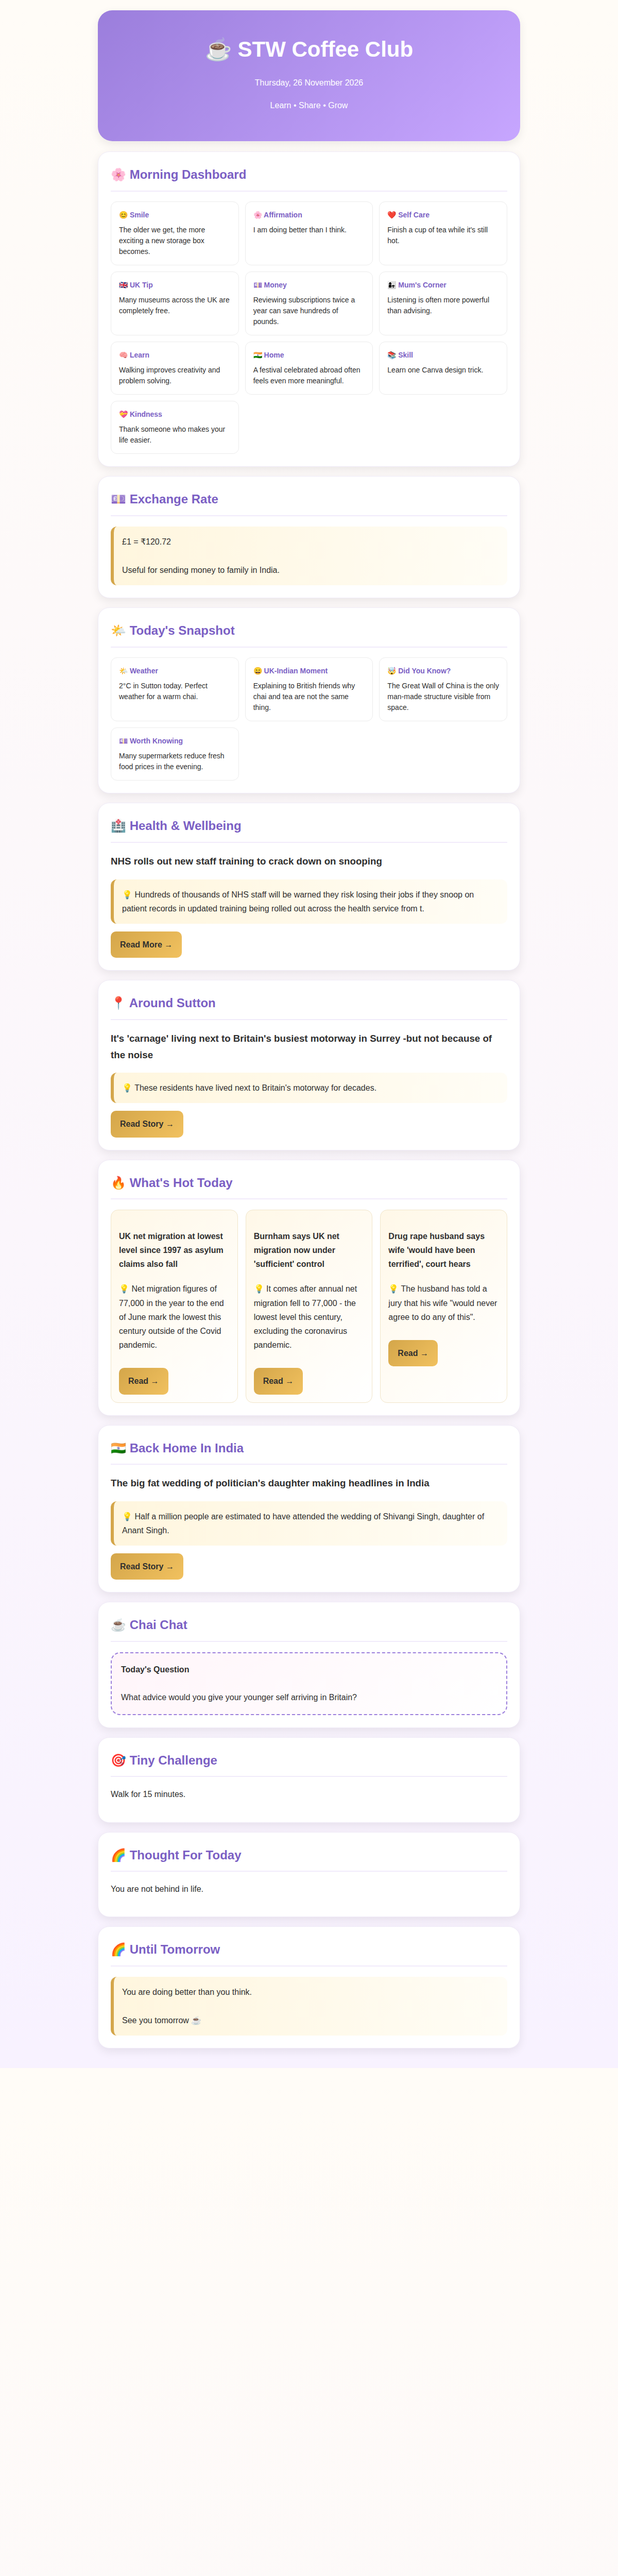
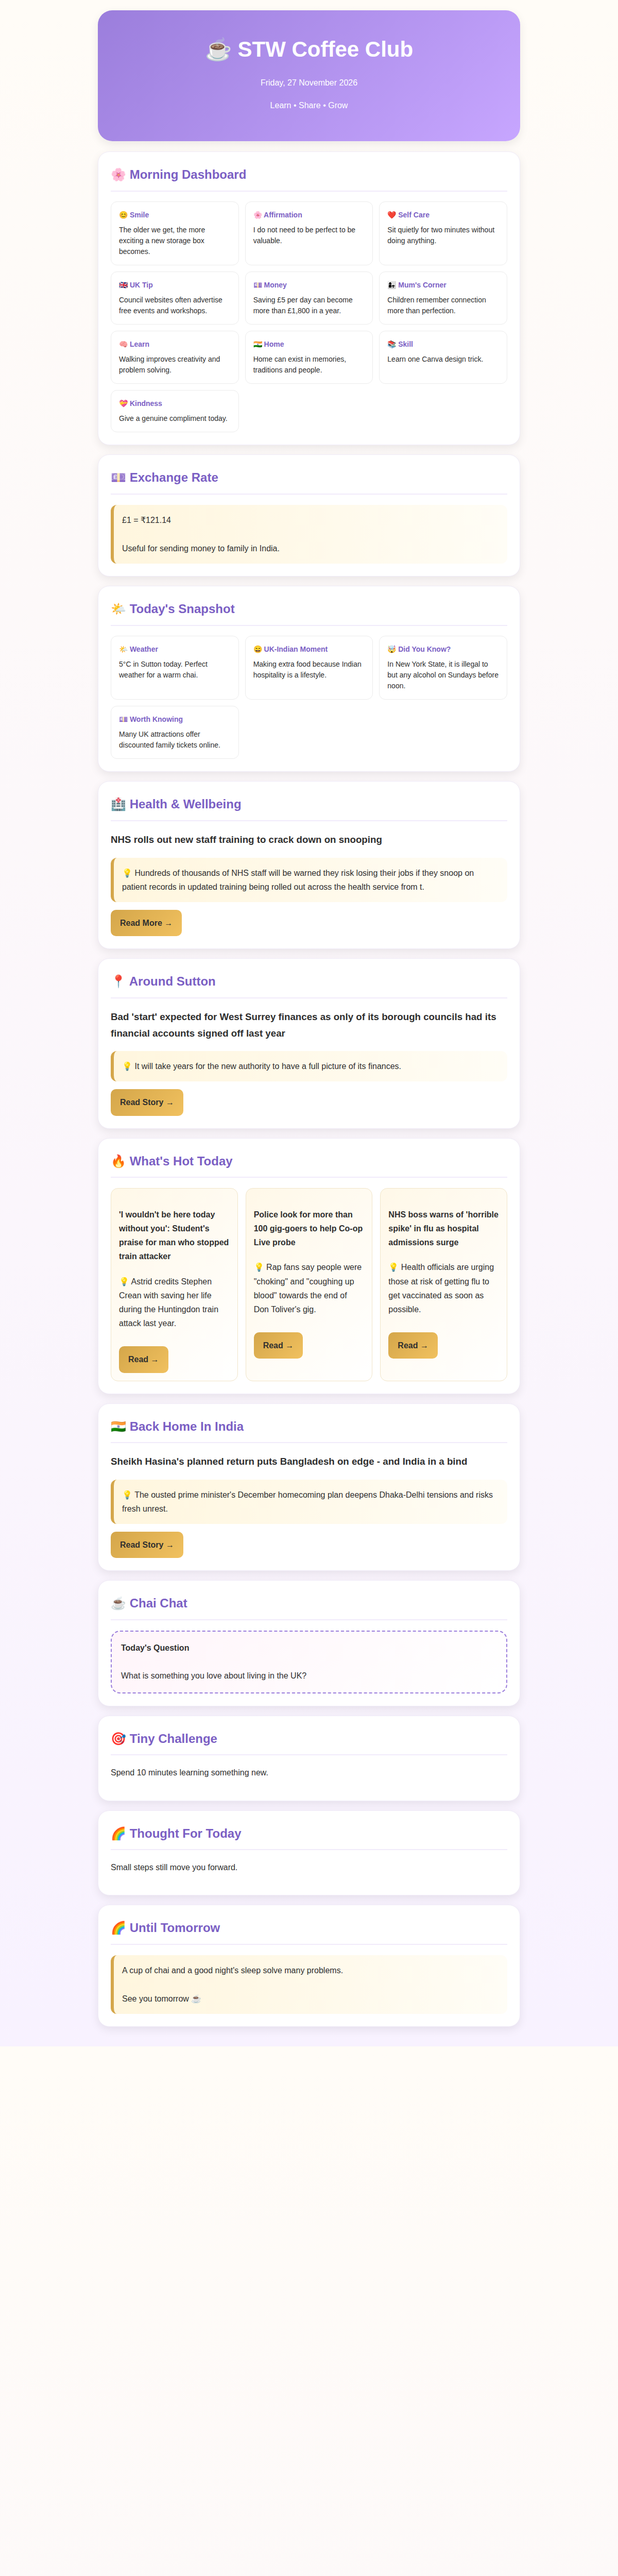
Daily newsletter update

diff --git a/index.html b/index.html
@@ -239,7 +239,7 @@ body {
 
 <h1>☕ STW Coffee Club</h1>
 
-<p>Thursday, 26 November 2026</p>
+<p>Friday, 27 November 2026</p>
 
 <p>Learn • Share • Grow</p>
 
@@ -258,27 +258,27 @@ body {
 
         <div class="mini-tile">
             <h4>🌸 Affirmation</h4>
-            I am doing better than I think.
+            I do not need to be perfect to be valuable.
         </div>
 
         <div class="mini-tile">
             <h4>❤ Self Care</h4>
-            Finish a cup of tea while it's still hot.
+            Sit quietly for two minutes without doing anything.
         </div>
 
         <div class="mini-tile">
             <h4>🇬🇧 UK Tip</h4>
-            Many museums across the UK are completely free.
+            Council websites often advertise free events and workshops.
         </div>
 
         <div class="mini-tile">
             <h4>💷 Money</h4>
-            Reviewing subscriptions twice a year can save hundreds of pounds.
+            Saving £5 per day can become more than £1,800 in a year.
         </div>
 
         <div class="mini-tile">
             <h4>👩👧 Mum's Corner</h4>
-            Listening is often more powerful than advising.
+            Children remember connection more than perfection.
         </div>
 
         <div class="mini-tile">
@@ -288,7 +288,7 @@ body {
 
         <div class="mini-tile">
             <h4>🇮🇳 Home</h4>
-            A festival celebrated abroad often feels even more meaningful.
+            Home can exist in memories, traditions and people.
         </div>
 
         <div class="mini-tile">
@@ -298,7 +298,7 @@ body {
 
         <div class="mini-tile">
             <h4>💝 Kindness</h4>
-            Thank someone who makes your life easier.
+            Give a genuine compliment today.
         </div>
 
     </div>
@@ -309,7 +309,7 @@ body {
         <h2>💷 Exchange Rate</h2>
         
         <div class="highlight">
-        £1 = ₹120.72
+        £1 = ₹121.14
         <br><br>
         Useful for sending money to family in India.
         </div>
@@ -323,22 +323,22 @@ body {
 
         <div class="mini-tile">
         <h4>🌤 Weather</h4>
-        2°C in Sutton today. Perfect weather for a warm chai.
+        5°C in Sutton today. Perfect weather for a warm chai.
         </div>
 
         <div class="mini-tile">
         <h4>😄 UK-Indian Moment</h4>
-        Explaining to British friends why chai and tea are not the same thing.
+        Making extra food because Indian hospitality is a lifestyle.
         </div>
 
         <div class="mini-tile">
         <h4>🤯 Did You Know?</h4>
-        The Great Wall of China is the only man-made structure visible from space.
+        In New York State, it is illegal to but any alcohol on Sundays before noon.
         </div>
 
         <div class="mini-tile">
         <h4>💷 Worth Knowing</h4>
-        Many supermarkets reduce fresh food prices in the evening.
+        Many UK attractions offer discounted family tickets online.
         </div>
 
     </div>
@@ -365,14 +365,14 @@ body {
     <div class="card">
         <h2>📍 Around Sutton</h2>
         
-        <h3>It's 'carnage' living next to Britain's busiest motorway in Surrey  -but not because of the noise</h3>
+        <h3>Bad 'start' expected for West Surrey finances as only of its borough councils had its financial accounts signed off last year</h3>
 
         <div class="highlight">
-        💡 These residents have lived next to Britain's motorway for decades.
+        💡 It will take years for the new authority to have a full picture of its finances.
         </div>
 
         <a class="button"
-        href="https://www.getsurrey.co.uk/news/surrey-news/its-carnage-living-next-britains-34968979"
+        href="https://www.getsurrey.co.uk/news/surrey-news/bad-start-expected-west-surrey-34977346"
         target="_blank">
         Read Story →
         </a>
@@ -385,45 +385,45 @@ body {
     <div class="tile-grid">
     
     <div class="news-tile">
-        <h4>UK net migration at lowest level since 1997 as asylum claims also fall</h4>
+        <h4>'I wouldn't be here today without you': Student's praise for man who stopped train attacker</h4>
 
         <p>
-        💡 Net migration figures of 77,000 in the year to the end of June mark the lowest this century outside of the Covid pandemic.
+        💡 Astrid credits Stephen Crean with saving her life during the Huntingdon train attack last year.
         </p>
 
         <a
         class="button"
-        href="https://www.bbc.co.uk/news/articles/cq36gj12n0l3o?at_medium=RSS&at_campaign=rss"
+        href="https://www.bbc.co.uk/news/articles/ck792lq4xrero?at_medium=RSS&at_campaign=rss"
         target="_blank">
         Read →
         </a>
     </div>
     
     <div class="news-tile">
-        <h4>Burnham says UK net migration now under 'sufficient' control</h4>
+        <h4>Police look for more than 100 gig-goers to help Co-op Live probe</h4>
 
         <p>
-        💡 It comes after annual net migration fell to 77,000 - the lowest level this century, excluding the coronavirus pandemic.
+        💡 Rap fans say people were "choking" and "coughing up blood" towards the end of Don Toliver's gig.
         </p>
 
         <a
         class="button"
-        href="https://www.bbc.co.uk/news/articles/ck792l8ndqyqo?at_medium=RSS&at_campaign=rss"
+        href="https://www.bbc.co.uk/news/articles/c8wy5vnpggnpo?at_medium=RSS&at_campaign=rss"
         target="_blank">
         Read →
         </a>
     </div>
     
     <div class="news-tile">
-        <h4>Drug rape husband says wife 'would have been terrified', court hears</h4>
+        <h4>NHS boss warns of 'horrible spike' in flu as hospital admissions surge</h4>
 
         <p>
-        💡 The husband has told a jury that his wife "would never agree to do any of this".
+        💡 Health officials are urging those at risk of getting flu to get vaccinated as soon as possible.
         </p>
 
         <a
         class="button"
-        href="https://www.bbc.co.uk/news/articles/ck053epz2ppmo?at_medium=RSS&at_campaign=rss"
+        href="https://www.bbc.co.uk/news/articles/cwvg2ndxdjr2o?at_medium=RSS&at_campaign=rss"
         target="_blank">
         Read →
         </a>
@@ -436,14 +436,14 @@ body {
     <div class="card">
         <h2>🇮🇳 Back Home In India</h2>
         
-        <h3>The big fat wedding of politician's daughter making headlines in India</h3>
+        <h3>Sheikh Hasina's planned return puts Bangladesh on edge - and India in a bind</h3>
 
         <div class="highlight">
-        💡 Half a million people are estimated to have attended the wedding of Shivangi Singh, daughter of Anant Singh.
+        💡 The ousted prime minister's December homecoming plan deepens Dhaka-Delhi tensions and risks fresh unrest.
         </div>
 
         <a class="button"
-        href="https://www.bbc.co.uk/news/articles/cvj6l162j0rpo?at_medium=RSS&at_campaign=rss"
+        href="https://www.bbc.co.uk/news/articles/cx30g71rev23o?at_medium=RSS&at_campaign=rss"
         target="_blank">
         Read Story →
         </a>
@@ -458,7 +458,7 @@ body {
 
     <br><br>
 
-    What advice would you give your younger self arriving in Britain?
+    What is something you love about living in the UK?
 
     </div>
     
@@ -466,19 +466,19 @@ body {
     
     <div class="card">
         <h2>🎯 Tiny Challenge</h2>
-        <p>Walk for 15 minutes.</p>
+        <p>Spend 10 minutes learning something new.</p>
     </div>
     
     <div class="card">
         <h2>🌈 Thought For Today</h2>
-        <p>You are not behind in life.</p>
+        <p>Small steps still move you forward.</p>
     </div>
     
     <div class="card">
         <h2>🌈 Until Tomorrow</h2>
         
     <div class="highlight">
-    You are doing better than you think.
+    A cup of chai and a good night's sleep solve many problems.
     <br><br>
     See you tomorrow ☕
     </div>
